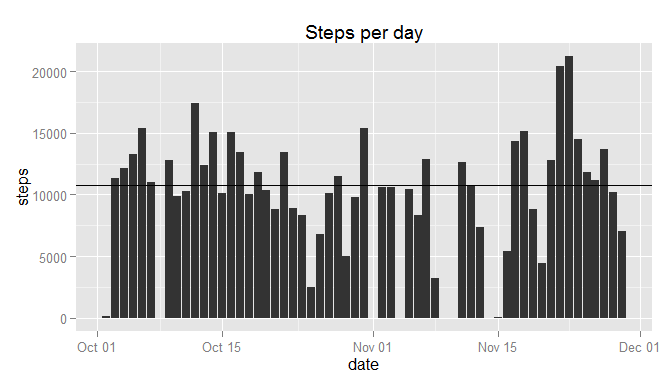
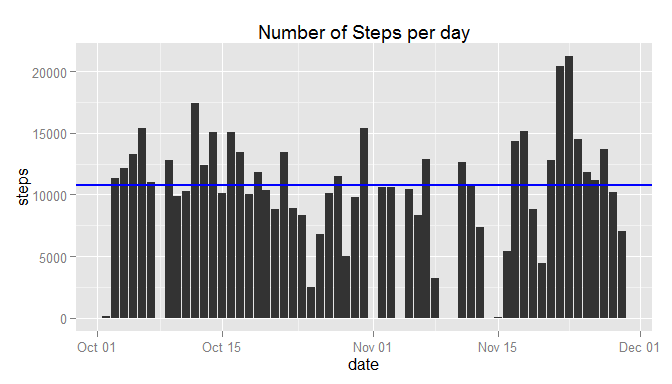
Completed second answer.

Changed region(s): [[0.125, 0.4688, 0.9688, 0.5], [0.375, 0.0625, 0.7188, 0.125]]

diff --git a/PA1_template.html b/PA1_template.html
@@ -83,14 +83,27 @@ Median_Steps &lt;- as.integer(median(Day_Steps$step))
 
 library(ggplot2)
 g &lt;- ggplot(Day_Steps, aes(date,steps)) + geom_bar(stat=&quot;identity&quot;)
-g &lt;- g + labs(title=&quot;Steps per day&quot;)
-g &lt;- g + geom_hline(yintercept = c(Mean_Steps,Median_Steps))
+g &lt;- g + labs(title=&quot;Number of Steps per day&quot;)
+g &lt;- g + geom_hline(yintercept = c(Mean_Steps,Median_Steps), color = &quot;blue&quot;, size = 1)
 plot(g)</code></pre>
[1 lines of base64/hex data omitted]
-<p>The picture is also showing the median 10765 and mean 10766 number of steps per day over the two months observation period.</p>
[1 lines of base64/hex data omitted]
+<p>The picture is also showing in blue the median = 10765 and mean = 10766 number of steps per day over the two months observation period.</p>
 </div>
 <div id="what-is-the-average-daily-activity-pattern" class="section level2">
 <h2>What is the average daily activity pattern?</h2>
+<p>Moving to the 5 minutes data resolution, the activity pattern over the 2 months observation period, is reported in the following graph.</p>
+<pre class="r"><code>Mean_Step_5 &lt;- as.integer(mean(OK_Steps$steps))
+iMax_Step_5 &lt;- which.max(OK_Steps$steps)
+Max_Step &lt;- OK_Steps[iMax_Step_5,]
+
+g &lt;- ggplot(OK_Steps, aes(date,steps)) + geom_line()
+g &lt;- g + labs(title = &quot;Number of Steps per 5 minutes&quot;)
+g &lt;- g + geom_hline(yintercept = Mean_Step_5, color = &quot;blue&quot;, size = 1)
+g &lt;- g + geom_point(data=Max_Step, aes(date,steps), color = &quot;red&quot;, size = 4)
+plot(g)</code></pre>
[1 lines of base64/hex data omitted]
+<p>The picture is also showing in blue the mean = 37 number of steps every 5 minutes over the two months observation period.</p>
+<p>Finally the maximum number of steps made in 5 minutes period is equal to 806 and occurred on the 2012-11-27 at time interval 615.</p>
 </div>
 <div id="imputing-missing-values" class="section level2">
 <h2>Imputing missing values</h2>

diff --git a/PA1_template.md b/PA1_template.md
@@ -1,6 +1,7 @@
 # Reproducible Research: Peer Assessment 1
 
 
+
 ## Loading and preprocessing the data
 The data to be analyzed is included in the archive activity.zip.The full data set is loaded and a copy of it is created without the missing values = NA. Both datasets, with and without missing values, are needed to answer the following questions.
 
@@ -45,19 +46,40 @@ Median_Steps <- as.integer(median(Day_Steps$step))
 
 library(ggplot2)
 g <- ggplot(Day_Steps, aes(date,steps)) + geom_bar(stat="identity")
-g <- g + labs(title="Steps per day")
-g <- g + geom_hline(yintercept = c(Mean_Steps,Median_Steps))
+g <- g + labs(title="Number of Steps per day")
+g <- g + geom_hline(yintercept = c(Mean_Steps,Median_Steps), color = "blue", size = 1)
 plot(g)
 ```
 
 ![](PA1_template_files/figure-html/Steps_per_day-1.png) 
 
-The picture is also showing the median 10765 and mean 10766 number of steps per day over the two months observation period. 
+The picture is also showing in blue the median = 10765 and mean = 10766 number of steps per day over the two months observation period. 
 
 
 
 
 ## What is the average daily activity pattern?
+Moving to the 5 minutes data resolution, the activity pattern over the 2 months observation period, is reported in the following graph.
+
+
+```r
+Mean_Step_5 <- as.integer(mean(OK_Steps$steps))
+iMax_Step_5 <- which.max(OK_Steps$steps)
+Max_Step <- OK_Steps[iMax_Step_5,]
+
+g <- ggplot(OK_Steps, aes(date,steps)) + geom_line()
+g <- g + labs(title = "Number of Steps per 5 minutes")
+g <- g + geom_hline(yintercept = Mean_Step_5, color = "blue", size = 1)
+g <- g + geom_point(data=Max_Step, aes(date,steps), color = "red", size = 4)
+plot(g)
+```
+
+![](PA1_template_files/figure-html/Steps_5_min-1.png) 
+
+The picture is also showing in blue the mean = 37 number of steps every 5 minutes over the two months observation period. 
+
+Finally the maximum number of steps made in 5 minutes period is equal to 806 and occurred on the 2012-11-27 at time interval 615.
+
 
 
 
